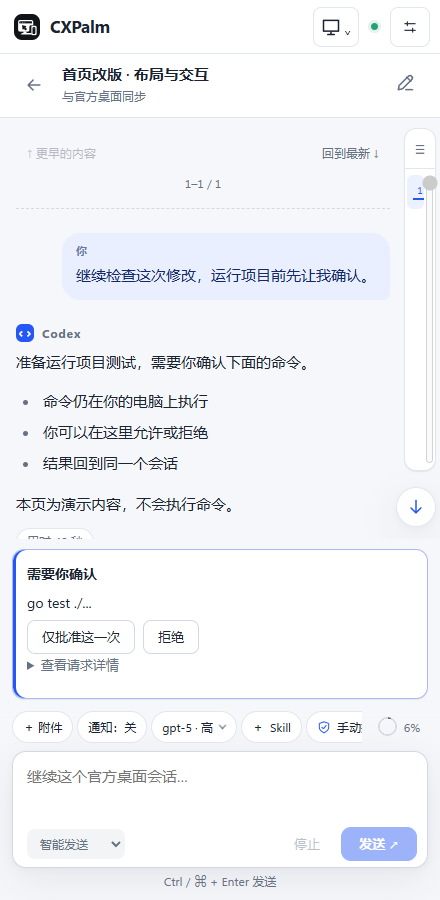
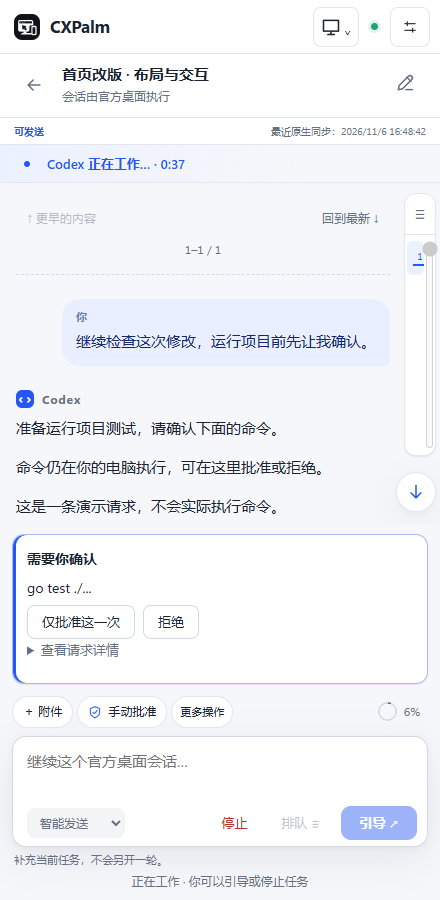
docs: refresh build9 screenshots and show mobile list runtime

diff --git a/README.md b/README.md
@@ -13,19 +13,19 @@ Web / Android / 桌面网关 **0.0.9 / build9** · 独立项目，非 OpenAI 官
 
 **电脑继续执行，网页看全局，手机随手续聊。**
 
-![CXPalm 网页工作台：左侧按项目查看会话，右侧阅读回复与代码，底部继续对话并设置模型、Skill 和权限](docs/images/web-workbench.png)
+![CXPalm 0.0.9 网页工作台：左侧按项目查看会话和运行时间，右侧阅读回复与代码，底部继续对话](docs/images/web-workbench.png)
 
 网页工作台：按项目整理会话，阅读回复与代码，在同一个会话里继续工作。
 
 网页会话列表直接显示运行中、待确认任务的实时耗时；结束后显示本轮用时。
 计时来自官方桌面，包含工具执行和等待确认时间。断线后撤下实时计时，缺失时间显示“计时待同步”。
 
-| 手机续聊 · 深色外观 | 远程审批 · 浅色外观 |
-| :---: | :---: |
-| <img src="docs/images/mobile-conversation.png" width="360" alt="CXPalm 移动网页版：阅读电脑上的会话，在底部输入消息继续对话"> | <img src="docs/images/mobile-approval.png" width="360" alt="CXPalm 移动网页版：查看待执行命令，选择仅批准这一次或拒绝"> |
-| 离开电脑也能查看回复、补充要求。 | 核对请求后批准或拒绝，操作仍在电脑执行。 |
+| 列表计时 · 随时看进度 | 手机续聊 · 深色外观 | 远程审批 · 浅色外观 |
+| :---: | :---: | :---: |
+| <img src="docs/images/mobile-list-runtime.png" width="260" alt="CXPalm 0.0.9 移动网页会话列表：直接查看运行中、待确认和已结束任务的用时"> | <img src="docs/images/mobile-conversation.png" width="260" alt="CXPalm 0.0.9 移动网页版：阅读电脑上的会话，在底部输入消息继续对话"> | <img src="docs/images/mobile-approval.png" width="260" alt="CXPalm 0.0.9 移动网页版：查看待执行命令，选择仅批准这一次或拒绝"> |
+| 不用逐个进入会话，就能看到耗时。 | 离开电脑也能查看回复、补充要求。 | 核对请求后批准或拒绝，操作仍在电脑执行。 |
 
-以上为当前 Web 客户端的实际界面截图，使用虚构项目和演示对话，不含私人聊天或真实授权信息。
+以上截图已更新至 0.0.9 / build9，使用当前 Web 客户端及虚构项目、对话和计时数据，不含私人聊天或真实授权信息。
 手机图为移动网页版，不是 Android 真机验证；演示审批不会执行命令。
 
 Android 支持「跟随系统 / 明亮工作台 / 雾蓝夜间」，在「设置 → 外观」中选择并保留。

diff --git a/VERIFICATION.md b/VERIFICATION.md
@@ -46,6 +46,12 @@ explicitly described as deployment connectivity or public-byte checks.
   installer and passes installation preflight; it does not execute the installer.
 - Android physical-device installation and macOS runtime acceptance have not
   been performed.
+- The README gallery is refreshed from the actual build9 Web client with
+  isolated synthetic sessions. The desktop view shows running, waiting and
+  completed list timing; mobile views show list timing, conversation and
+  approval. All four images are visually reviewed, have no horizontal page
+  overflow or error banner, and contain no real chat or authorization data.
+  Mobile images represent the responsive Web client, not Android-device tests.
 
 ## 0.0.8 / build8
 
